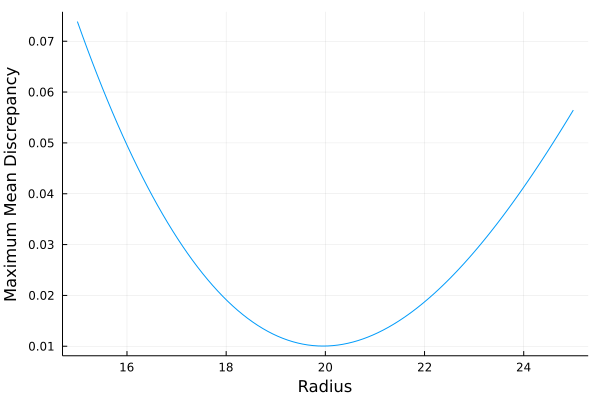
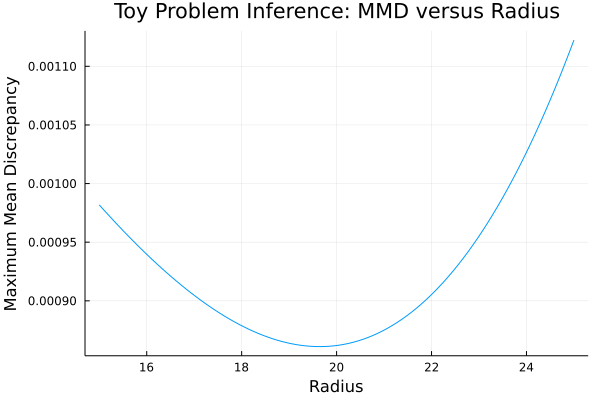
Added graph and code

diff --git a/Kernel Mean Embedding.md b/Kernel Mean Embedding.md
@@ -174,7 +174,7 @@ First, a Gaussian kernel is defined. In this example the KernelFunctions.lj pack
 k = SqExponentialKernel() ∘ ScaleTransform(0.01)
 ```
 
-Second, 100 circles are generated with 100 equally spaced points. Each circle has a different radius ranging from 15 to 25. To compute the MMD between these circles and the input data, several Gram matrices need to be computed. In the code below, K1 and K2 are the Gram matrices generated by the function "kernelmatrix" over the input data and the generated model given a radius, respectively. The coordinates of each data point need to be considered as one input value $x$ in the Gaussian kernel, hence the use of "RowVecs". In K3 each element is a Gaussian kernel of two inputs, one being the coordinates of the input data and the other one being the coordinates of the generated model given a radius. With the computed Gram matrices, for each generated circle, an MMD can be calculated.
+Second, 100 circles are generated with 100 equally spaced points. Each circle has a different radius ranging from 15 to 25. To compute the MMD between these circles and the input data, several Gram matrices need to be computed. In the code below, K1 and K2 are the Gram matrices generated by the function "kernelmatrix" over the input data and a generated model, respectively. The coordinates of each data point need to be considered as one input value $x$ in the Gaussian kernel, hence the use of "RowVecs". In K3 each element is a Gaussian kernel of two inputs, one being the coordinates of the input data and the other one being the coordinates of the generated model given a radius. With the computed Gram matrices, for each generated circle, an MMD can be calculated.
 
 ```julia
 R2 = LinRange(15, 25, n) # Generate an array of n radii ranging from 15 to 25
@@ -188,7 +188,7 @@ for i in 1:n
 	mmds = [mmds; mmd] # Add the MMD to the array of MMDs
 end
 ```
-Plotting out our results for the MMD versus the radius of each model circle.
+The obtained MMDs can be plotted versus the radius of each corresponding generated circle: 
 
 ![MMD Versus Radius](/assets/MMD%20versus%20Radius.png) 
 
